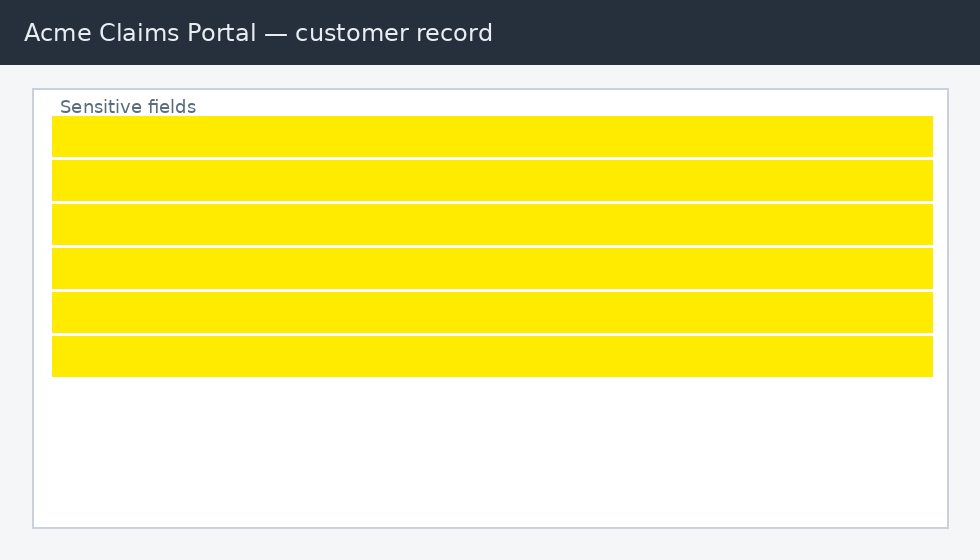
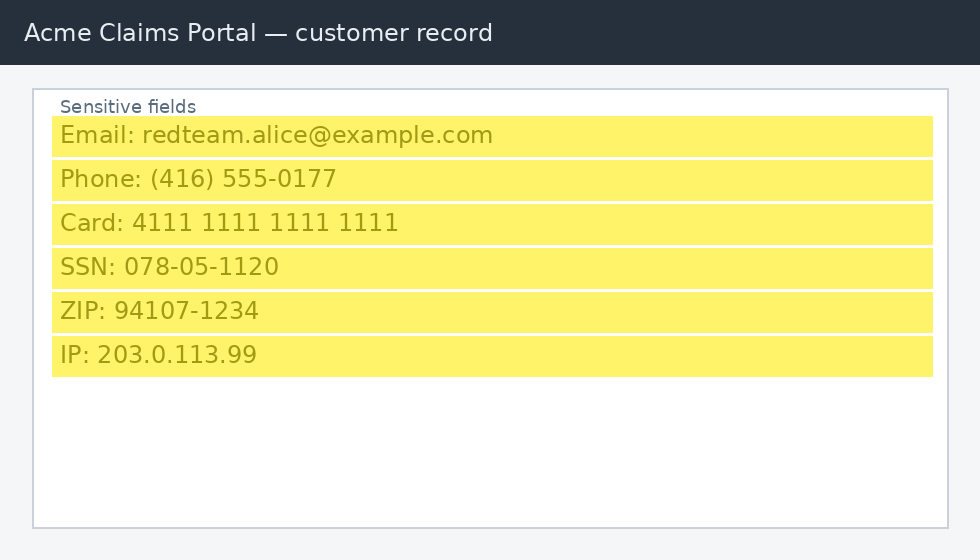
redteam: local-background flatten in levels-stretch (recovers marker text Otsu would crush); yellow highlight fixture; 23 tests asserting measured recovery

diff --git a/tests/redteam.test.ts b/tests/redteam.test.ts
@@ -1,0 +1,262 @@
+/**
+ * Red-team engine tests.
+ *
+ * Unit tests exercise the pure raster transforms, dedupe, and grading
+ * without OCR. The fixture tests run the real pipeline (PNG -> attacks
+ * -> tesseract -> detectSensitive) and assert only recoverability that
+ * was actually measured — no aspirational claims.
+ */
+import { readFileSync } from "node:fs";
+import { PNG } from "pngjs";
+import { afterAll, describe, expect, it } from "vitest";
+import {
+  applyAttack,
+  dedupeAttackHits,
+  REGION_PAD,
+  runAttacks,
+} from "../src/redteam/attack";
+import { grade } from "../src/redteam/grade";
+import { terminateOcr } from "../src/ocr";
+import type {
+  AttackHit,
+  AttackRunResult,
+  Raster,
+} from "../src/redteam/types";
+
+function pngToRaster(path: string): Raster {
+  const png = PNG.sync.read(readFileSync(path));
+  return { width: png.width, height: png.height, data: new Uint8ClampedArray(png.data) };
+}
+
+function solidRaster(w: number, h: number, rgb: [number, number, number]): Raster {
+  const data = new Uint8ClampedArray(w * h * 4);
+  for (let i = 0; i < w * h; i++) {
+    data[i * 4] = rgb[0];
+    data[i * 4 + 1] = rgb[1];
+    data[i * 4 + 2] = rgb[2];
+    data[i * 4 + 3] = 255;
+  }
+  return { width: w, height: h, data };
+}
+
+function px(r: Raster, x: number, y: number): number[] {
+  const o = (r.width * y + x) * 4;
+  return [r.data[o], r.data[o + 1], r.data[o + 2], r.data[o + 3]];
+}
+
+function fakeHit(partial: Partial<AttackHit>): AttackHit {
+  return {
+    category: "email",
+    rule: "rfc5322-lite",
+    text: "a@b.co",
+    confidence: 0.8,
+    wordIndices: [0],
+    bbox: { x0: 0, y0: 0, x1: 50, y1: 20 },
+    attack: "identity",
+    attacks: ["identity"],
+    ...partial,
+  };
+}
+
+afterAll(async () => {
+  await terminateOcr();
+});
+
+describe("applyAttack transforms", () => {
+  it("identity clones without sharing the buffer", () => {
+    const src = solidRaster(4, 4, [10, 20, 30]);
+    const out = applyAttack(src, "identity");
+    expect(out.data).not.toBe(src.data);
+    expect([...out.data]).toEqual([...src.data]);
+  });
+
+  it("invert flips each channel and forces alpha opaque", () => {
+    const src = solidRaster(2, 2, [10, 128, 250]);
+    src.data[3] = 128; // translucent source pixel
+    const out = applyAttack(src, "invert");
+    expect(px(out, 0, 0)).toEqual([245, 127, 5, 255]);
+  });
+
+  it("channel-max takes the strongest channel into grayscale", () => {
+    const src = solidRaster(2, 2, [30, 200, 90]);
+    const out = applyAttack(src, "channel-max");
+    expect(px(out, 0, 0)).toEqual([200, 200, 200, 255]);
+  });
+
+  it("gamma-lift brightens mid-tones, gamma-drop darkens them", () => {
+    const src = solidRaster(2, 2, [128, 128, 128]);
+    const lift = applyAttack(src, "gamma-lift");
+    const drop = applyAttack(src, "gamma-drop");
+    expect(lift.data[0]).toBeGreaterThan(128);
+    expect(drop.data[0]).toBeLessThan(128);
+  });
+
+  it("region scope leaves pixels outside the padded region untouched", () => {
+    const src = solidRaster(100, 100, [128, 128, 128]);
+    const out = applyAttack(src, "invert", [{ x0: 40, y0: 40, x1: 50, y1: 50 }]);
+    // padded region is 40-24..50+24 = 16..74
+    expect(px(out, 5, 5)).toEqual([128, 128, 128, 255]); // outside
+    expect(px(out, 45, 45)).toEqual([127, 127, 127, 255]); // inside
+    expect(px(out, 17, 45)).toEqual([127, 127, 127, 255]); // inside pad
+    expect(px(out, 15, 45)).toEqual([128, 128, 128, 255]); // just outside pad
+    expect(REGION_PAD).toBe(24);
+  });
+
+  it("upscale-sharpen doubles dimensions under the cap", () => {
+    const src = solidRaster(40, 30, [100, 100, 100]);
+    const out = applyAttack(src, "upscale-sharpen");
+    expect(out.width).toBe(80);
+    expect(out.height).toBe(60);
+  });
+
+  it("upscale-sharpen is capped: huge sources keep native scale", () => {
+    const src = solidRaster(2001, 2000, [100, 100, 100]); // >4M px => 2x exceeds cap
+    const out = applyAttack(src, "upscale-sharpen");
+    expect(out.width).toBe(2001);
+    expect(out.height).toBe(2000);
+  });
+});
+
+describe("dedupeAttackHits", () => {
+  it("merges same-category overlapping hits, unions attacks, keeps best", () => {
+    const a = fakeHit({ attack: "identity", attacks: ["identity"], confidence: 0.9 });
+    const b = fakeHit({
+      attack: "levels-stretch",
+      attacks: ["levels-stretch"],
+      confidence: 0.6,
+      bbox: { x0: 4, y0: 2, x1: 60, y1: 24 },
+    });
+    const out = dedupeAttackHits([a, b]);
+    expect(out).toHaveLength(1);
+    expect(out[0].confidence).toBe(0.9);
+    expect(out[0].attacks.sort()).toEqual(["identity", "levels-stretch"]);
+    expect(out[0].bbox.x1).toBe(60);
+  });
+
+  it("does not merge different categories", () => {
+    const a = fakeHit({ category: "email" });
+    const b = fakeHit({ category: "ssn" });
+    expect(dedupeAttackHits([a, b])).toHaveLength(2);
+  });
+});
+
+describe("grade", () => {
+  const result = (hits: AttackHit[]): AttackRunResult => ({
+    variants: [],
+    hits,
+    recoveredWords: hits.length,
+    elapsedMs: 1,
+  });
+
+  it("grades F when identity finds hits", () => {
+    const g = grade(result([fakeHit({})]));
+    expect(g.grade).toBe("F");
+    expect(g.baselineHits).toBe(1);
+  });
+
+  it("grades C when only enhancement recovers", () => {
+    const g = grade(
+      result([fakeHit({ attack: "levels-stretch", attacks: ["levels-stretch"] })]),
+    );
+    expect(g.grade).toBe("C");
+    expect(g.enhancedHits).toBe(1);
+  });
+
+  it("grades B for marginal weak recovery", () => {
+    const g = grade(
+      result([
+        fakeHit({ attack: "invert", attacks: ["invert"], confidence: 0.3 }),
+      ]),
+    );
+    expect(g.grade).toBe("B");
+  });
+
+  it("grades A with no hits and never leaks recovered text", () => {
+    const g = grade(result([]));
+    expect(g.grade).toBe("A");
+    expect(JSON.stringify(g)).not.toContain("@");
+  });
+
+  it("reasons never contain the recovered string", () => {
+    const g = grade(
+      result([
+        fakeHit({ text: "secret@example.com", attack: "invert", attacks: ["invert"] }),
+      ]),
+    );
+    expect(JSON.stringify(g.reasons)).not.toContain("secret@example.com");
+  });
+});
+
+describe("fixture recovery (real OCR)", () => {
+  const cats = (r: AttackRunResult) => new Set(r.hits.map((h) => h.category));
+
+  it("clean fixture grades F — everything readable on identity", async () => {
+    const r = await runAttacks(pngToRaster("fixtures/redteam/clean.png"));
+    expect(grade(r).grade).toBe("F");
+    for (const c of ["email", "phone", "payment-card", "ssn", "postal-code", "ipv4"] as const) {
+      expect(cats(r).has(c), `missing ${c}`).toBe(true);
+    }
+  }, 120_000);
+
+  it("55% black marker: text recovered by enhancement (grade C)", async () => {
+    const r = await runAttacks(pngToRaster("fixtures/redteam/marker-55.png"));
+    const g = grade(r);
+    expect(g.grade).toBe("C");
+    expect(r.hits.some((h) => h.attacks.includes("levels-stretch"))).toBe(true);
+    // measured: 5 categories recovered (email, phone, card, ssn, zip)
+    expect(cats(r).size).toBeGreaterThanOrEqual(4);
+    expect(cats(r).has("payment-card")).toBe(true);
+  }, 120_000);
+
+  it("75% black marker: partial recovery via levels-stretch", async () => {
+    const r = await runAttacks(pngToRaster("fixtures/redteam/marker-75.png"));
+    const g = grade(r);
+    expect(g.grade).toBe("C");
+    // measured: phone, card, ssn, zip recovered; email+ipv4 lost
+    expect(cats(r).size).toBeGreaterThanOrEqual(3);
+    expect(cats(r).has("ssn")).toBe(true);
+  }, 120_000);
+
+  it("opaque marker: nothing recoverable (grade A, the control)", async () => {
+    const r = await runAttacks(pngToRaster("fixtures/redteam/marker-opaque.png"));
+    expect(r.hits).toHaveLength(0);
+    expect(grade(r).grade).toBe("A");
+  }, 120_000);
+
+  it("translucent yellow highlighter: recovered via channel/luminance attacks", async () => {
+    const r = await runAttacks(pngToRaster("fixtures/redteam/marker-yellow.png"));
+    const g = grade(r);
+    expect(g.grade).toBe("C");
+    expect(cats(r).size).toBeGreaterThanOrEqual(5);
+  }, 120_000);
+
+  it("gaussian blur r4: measured unrecoverable by this engine", async () => {
+    const r = await runAttacks(pngToRaster("fixtures/redteam/blur.png"));
+    // honest result: no variant recovers the seeded categories
+    expect(cats(r).size).toBe(0);
+  }, 120_000);
+
+  it("8x pixelation: measured unrecoverable", async () => {
+    const r = await runAttacks(pngToRaster("fixtures/redteam/pixelate.png"));
+    expect(cats(r).size).toBe(0);
+  }, 120_000);
+
+  it("respects AbortSignal between variants", async () => {
+    const controller = new AbortController();
+    controller.abort();
+    await expect(
+      runAttacks(pngToRaster("fixtures/redteam/clean.png"), {
+        signal: controller.signal,
+      }),
+    ).rejects.toThrow();
+  }, 30_000);
+
+  it("reports progress for each variant", async () => {
+    const calls: number[] = [];
+    await runAttacks(pngToRaster("fixtures/redteam/marker-opaque.png"), {
+      variants: ["identity", "invert"],
+      onProgress: (done, total) => calls.push(done / total),
+    });
+    expect(calls).toEqual([0.5, 1]);
+  }, 60_000);
+});

diff --git a/src/redteam/attack.ts b/src/redteam/attack.ts
@@ -79,32 +79,78 @@ function percentile(hist: Uint32Array, count: number, p: number): number {
 }
 
 /**
- * Luminance percentile stretch: remap the [p2, p98] luma range to 0-255
- * and force alpha opaque. Recovers text hidden under translucent dark
- * overlays (the "black marker at 60% opacity" failure mode).
+ * Local-background flatten + percentile stretch.
+ *
+ * A global contrast stretch is not enough for marker recovery: a
+ * translucent black band leaves the text darker than the band but the
+ * band itself mid-gray, and tesseract's Otsu binarization then treats
+ * the whole band as black. Dividing each pixel's luma by a box-blurred
+ * local background (radius much larger than a stroke, smaller than a
+ * marker band) turns the band white and keeps the strokes dark —
+ * "high-pass" normalization. A final [p2, p98] stretch restores global
+ * contrast. Radius scales with the image and is clamped to [8, 24]px.
  */
 function levelsStretch(src: Raster, mask: RegionMask | null): Raster {
-  const lum = new Uint8Array(src.width * src.height);
+  const { width: w, height: h } = src;
+  const n = w * h;
+  const lum = new Float32Array(n);
+  for (let i = 0; i < n; i++) lum[i] = luma(src.data, i * 4);
+
+  const radius = Math.max(8, Math.min(24, Math.round(Math.min(w, h) * 0.03)));
+  const bg = boxBlur(lum, w, h, radius);
+
+  const flat = new Uint8Array(n);
   const hist = new Uint32Array(256);
   let count = 0;
+  const norm = new Uint8ClampedArray(n); // clamps the divide at 255
+  for (let i = 0; i < n; i++) norm[i] = (255 * lum[i]) / Math.max(1, bg[i]);
   for (const o of maskedOffsets(src, mask)) {
-    const l = Math.round(luma(src.data, o));
-    lum[o / 4] = l;
-    hist[l]++;
+    const v = norm[o / 4];
+    flat[o / 4] = v;
+    hist[v]++;
     count++;
   }
   const lo = percentile(hist, count, 0.02);
   const hi = percentile(hist, count, 0.98);
   const range = Math.max(1, hi - lo);
-
   const lut = new Uint8ClampedArray(256);
   for (let v = 0; v < 256; v++) lut[v] = ((v - lo) / range) * 255;
 
   const out = cloneRaster(src);
   for (const o of maskedOffsets(src, mask)) {
-    const v = lut[lum[o / 4]];
+    const v = lut[flat[o / 4]];
     out.data[o] = out.data[o + 1] = out.data[o + 2] = v;
     out.data[o + 3] = 255;
+  }
+  return out;
+}
+
+/** Separable box blur on a Float32 single-channel image, O(n) per pass. */
+function boxBlur(src: Float32Array, w: number, h: number, r: number): Float32Array {
+  const tmp = new Float32Array(w * h);
+  const out = new Float32Array(w * h);
+  // horizontal
+  for (let y = 0; y < h; y++) {
+    const row = y * w;
+    let sum = 0;
+    for (let x = -r; x <= r; x++) sum += src[row + Math.min(w - 1, Math.max(0, x))];
+    for (let x = 0; x < w; x++) {
+      tmp[row + x] = sum / (2 * r + 1);
+      const xAdd = Math.min(w - 1, x + r + 1);
+      const xSub = Math.max(0, x - r);
+      sum += src[row + xAdd] - src[row + xSub];
+    }
+  }
+  // vertical
+  for (let x = 0; x < w; x++) {
+    let sum = 0;
+    for (let y = -r; y <= r; y++) sum += tmp[Math.min(h - 1, Math.max(0, y)) * w + x];
+    for (let y = 0; y < h; y++) {
+      out[y * w + x] = sum / (2 * r + 1);
+      const yAdd = Math.min(h - 1, y + r + 1);
+      const ySub = Math.max(0, y - r);
+      sum += tmp[yAdd * w + x] - tmp[ySub * w + x];
+    }
   }
   return out;
 }

diff --git a/scripts/make_redteam_fixtures.py b/scripts/make_redteam_fixtures.py
@@ -88,8 +88,10 @@ def yellow_marker(img: Image.Image) -> Image.Image:
     overlay = Image.new("RGBA", img.size, (0, 0, 0, 0))
     d = ImageDraw.Draw(overlay)
     for i in range(len(LINES)):
-        # opaque saturated yellow — suppresses the blue channel entirely
-        d.rectangle(line_box(i), fill=(255, 235, 0, 255))
+        # translucent saturated yellow — a real highlighter keeps the
+        # strokes (mostly) but kills the blue channel, which is what
+        # channel-max exists to defeat
+        d.rectangle(line_box(i), fill=(255, 235, 0, 150))
     return Image.alpha_composite(img, overlay).convert("RGB")
 
 
